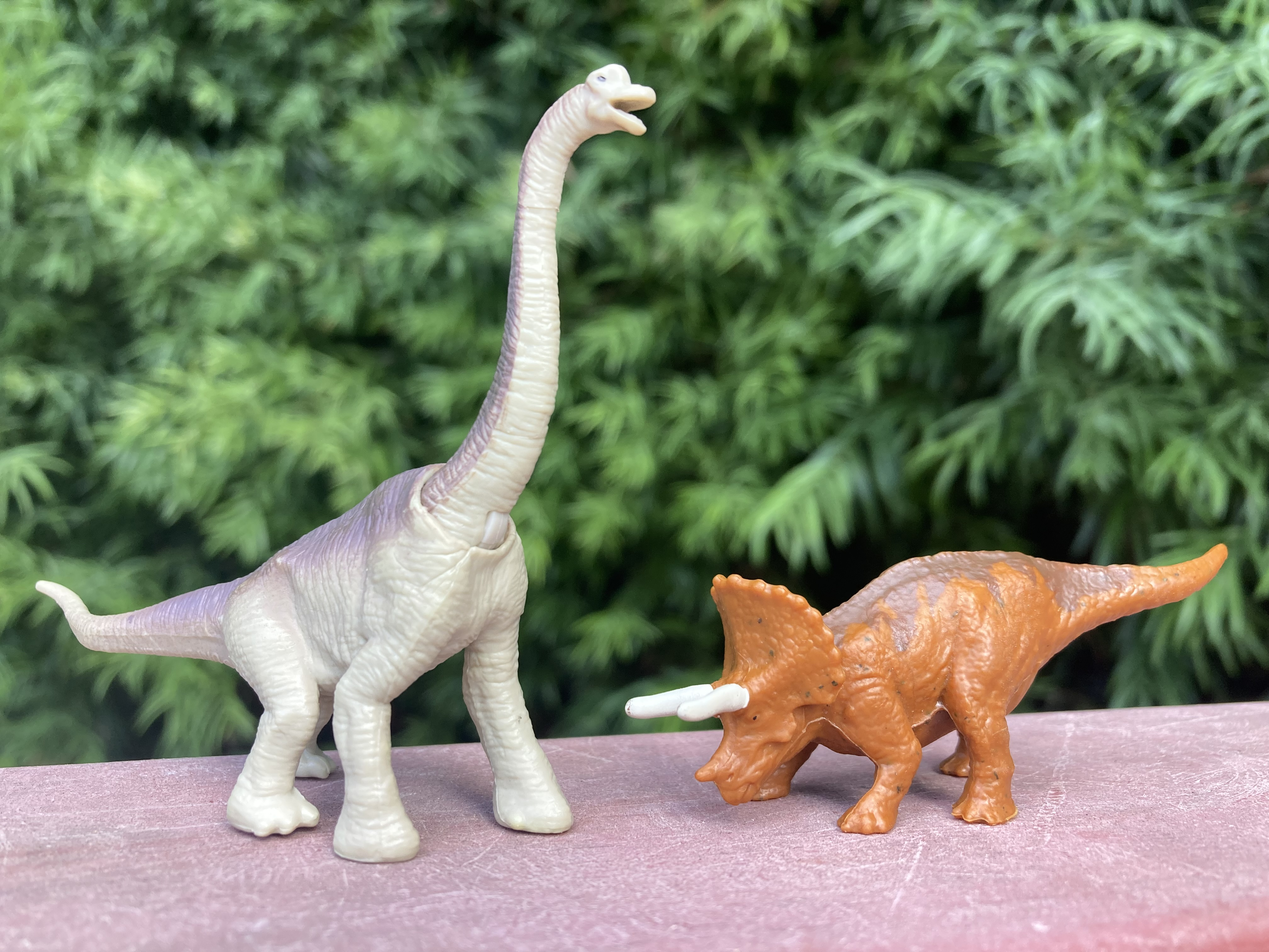
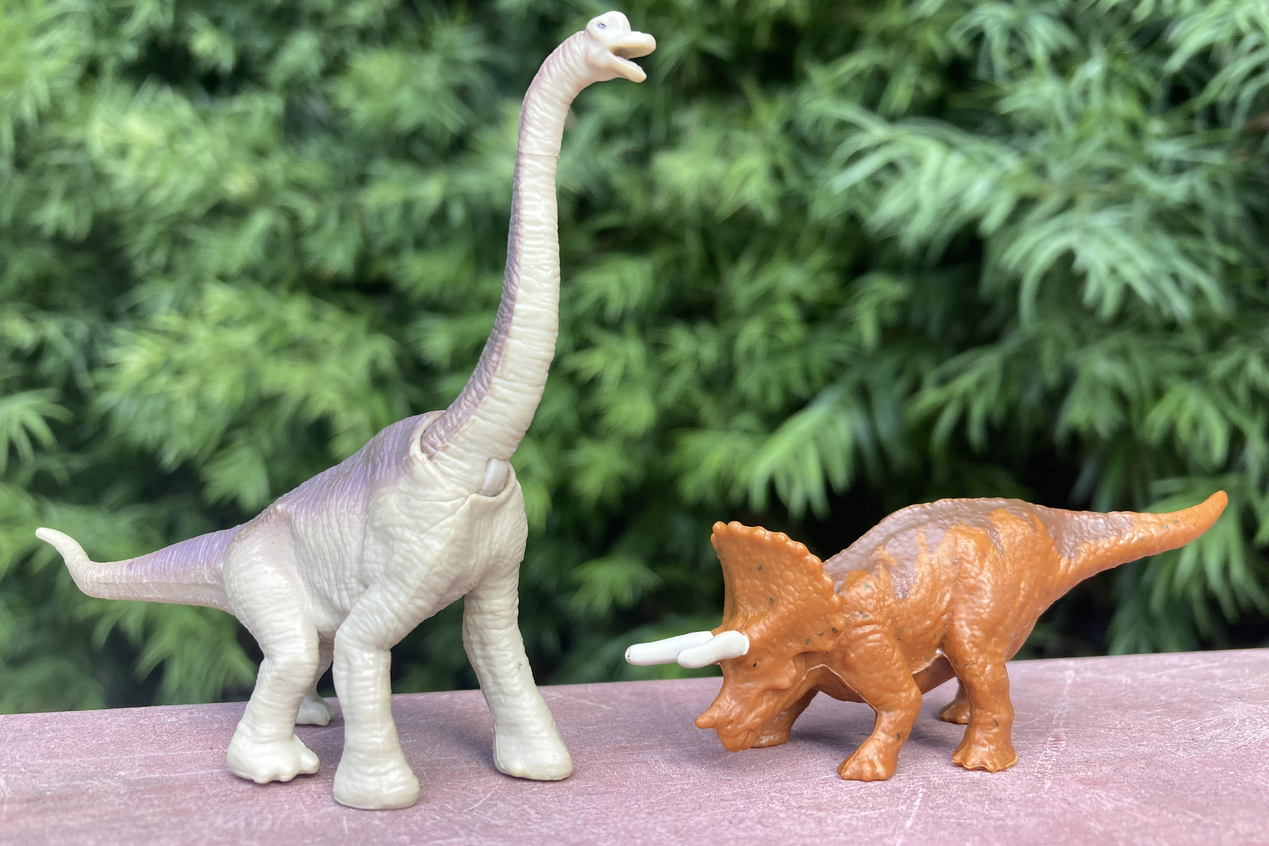
website update

diff --git a/index.html b/index.html
@@ -1,5 +1,6 @@
 <body>
 <h1>My Class Website</h1>
-<p>Hello! This is my first website!</p>
+<p>Hello! My Name is Diego Sandate. This is my first website!</p>
+<p>As you can see, I am a huge fan of dinosaurs.</p>
 <img src="image.jpeg" alt="Description of image">
 </body>
